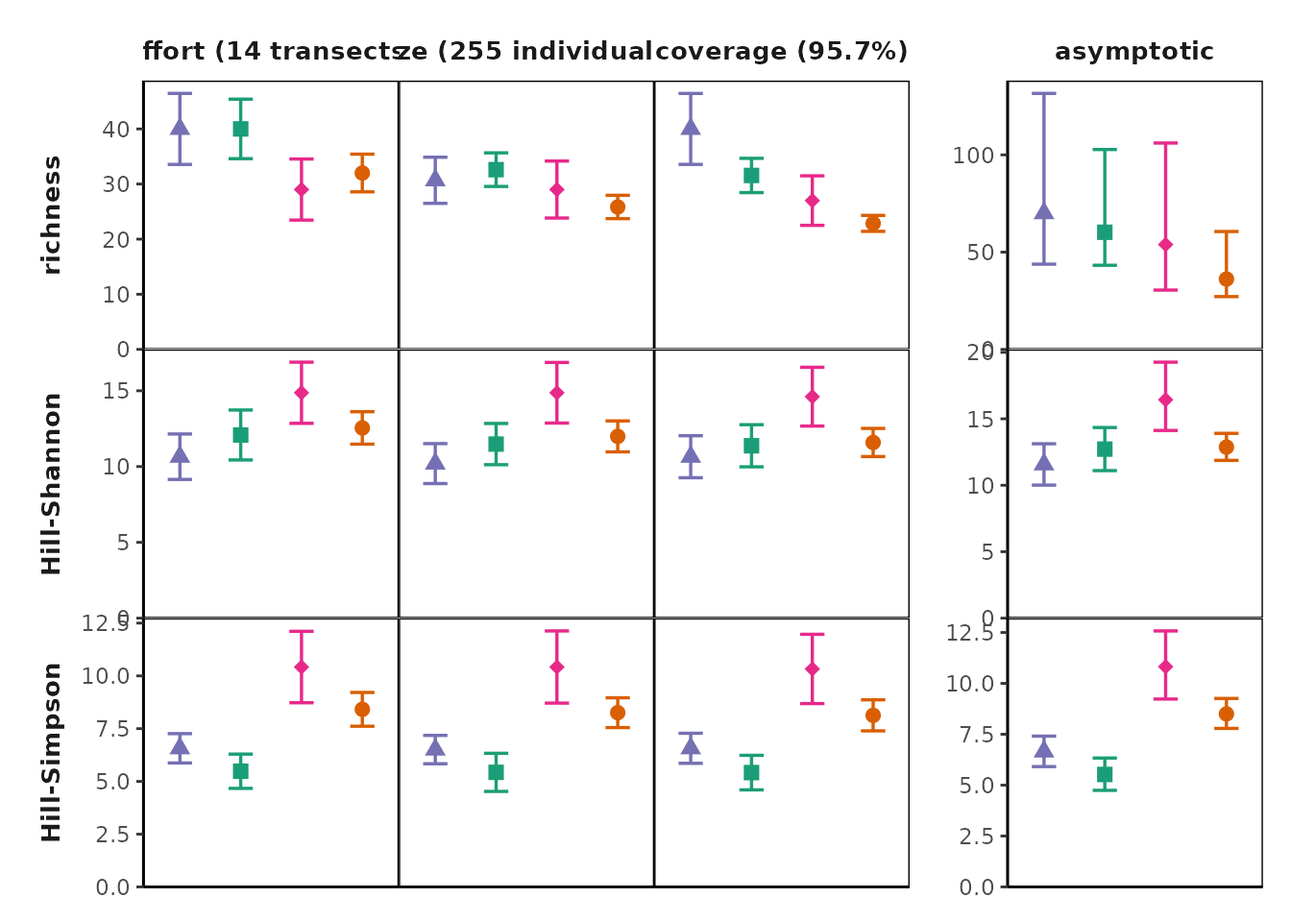
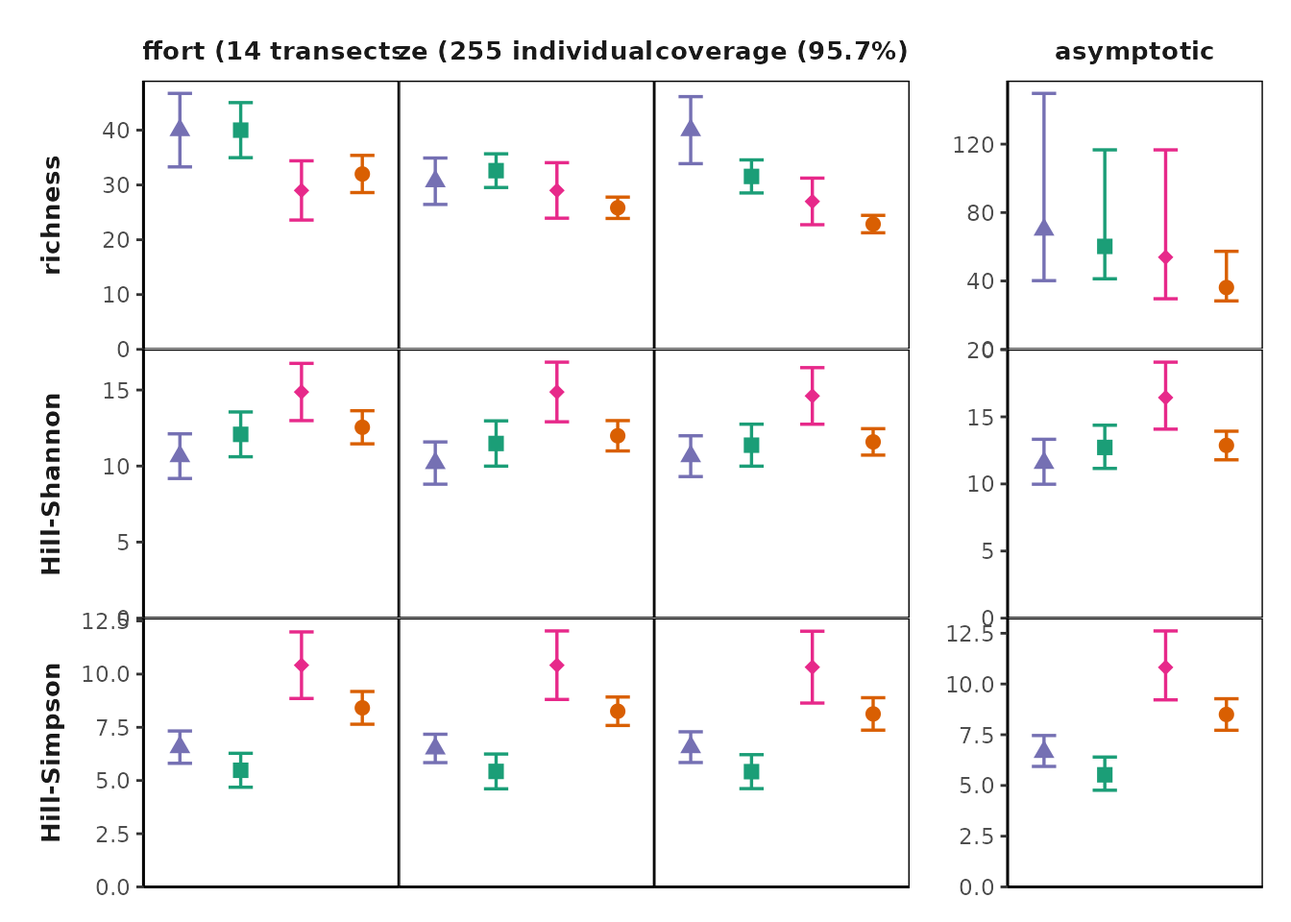
Built site for MeanRarity: 0.0.1.0000@dbbc56a

diff --git a/articles/Using_MeanRarity.html b/articles/Using_MeanRarity.html
@@ -94,6 +94,16 @@
 <!-- also see prettydoc::html_pretty which might solve the equation numbering issues -->
 <!-- https://bookdown.org/yihui/rmarkdown/prettydoc.html -->
 
+<div id="abstract" class="section level1">
+<h1 class="hasAnchor">
+<a href="#abstract" class="anchor"></a>ABSTRACT</h1>
+<ol style="list-style-type: decimal">
+<li><p>Detecting, describing, and predicting biodiversity shifts, a critical project in ecology and evolution, requires metrics with well-understood numerical and statistical properties, and transparent interpretations. Recently, Hill diversity measures have been promoted for their ability to accommodate many historical biodiversity concepts, and quantify diversity in natural “effective numbers” units. The transformation to the effective numbers scale, while potentially easing comparability and interpretability of disparate measures, can fuel false beliefs about the numerical and statistical properties of Hill diversity measures. Re-parameterizing the Hill number equation in terms of the generalized mean opens avenues to investigate the numerical and statistical properties of these widely-used measures.</p></li>
+<li><p>Here, we present the <code>R</code> package <code>MeanRarity</code>, which enables estimating and visualizing Hill diversity (aka “Hill numbers”) in terms of the average species “rarity.” Rarity is defined as the reciprocal of relative abundance. Users can compute mean rarity, generate plots to visualize species abundance distributions and their average rarity, and simulate species abundance distributions with known diversity. Here, we simulate species abundance distributions, and estimate the diversity of these assemblages based on random samples from these distributions. We investigate how the bias and variability of Hill diversity estimates (i.e., the diversity of the sample, and the estimated true diversity of the whole species abundance distriution) depend on the scaling parameter in the Hill equation, features of the species abundance distribution such as evenness, and sampling intensity.</p></li>
+<li><p>Our simulations reveal that Hill-Simpson diversity estimates can be highly variable. Within the range of sample sizes we investigated, sample Hill diversity was always most variable when the scaling parameter was equal to -1 (Hill-Simpson diversity). While the asymptotic estimator for Hill-Simpson diversity was relatively more stable, it was still more variable than asymptotic Hill-diversity estimates where the scaling parameter was between -1 and 1. Furthermore, the asymptotic estimator for Hill-Simpson diversity exhibited greater bias at low sample sizes than the asymptotic estimator for Hill diversities with intermediate scaling parameter values, although as previously reported the bias is negligible for the asymptotic estimates for Hill diversity with a scaling parameter less than about 0.75 for all species abundance distributions once samples sizes were relatively large.</p></li>
+<li><p><code>MeanRarity</code> provides tools to students, researchers, and biostatisticians to understand and investigate Hill diversity metrics. Fixing diversity values, a priori, in simulated species abundance distributions enables replicable, targeted testing of numerical and statistical properties of Hill diversities and their estimators. With this simulation platform, we tested Hill diversity estimates on samples from species abundance distributions that differed in shape, but not in richness or evenness. Our simulations reveal that for both sample Hill diversities and asymptotic Hill diversity estimates, lower bias and variability may be possible with a scaling parameter value between -1 and 1 (i.e. between Hill-Simpson diversity and richness) for small, incomplete samples.</p></li>
+</ol>
+</div>
 <div id="introduction" class="section level1">
 <h1 class="hasAnchor">
 <a href="#introduction" class="anchor"></a>INTRODUCTION</h1>
@@ -272,9 +282,9 @@
 <span class="va">uneven_sample</span> <span class="op">&lt;-</span> <span class="fu"><a href="../reference/sample_infinite.html">sample_infinite</a></span><span class="op">(</span><span class="va">uneven_SAD</span><span class="op">$</span><span class="va">rel_abundances</span>, <span class="fl">50</span><span class="op">)</span>
 <span class="co">#sample_infinite returns a numeric vector of sample species abundances</span>
 <span class="va">even_sample</span>
-<span class="co">#&gt;  [1] 5 3 7 8 2 3 5 2 1 4 1 3 0 1 0 0 2 2 0 1</span>
+<span class="co">#&gt;  [1] 11  5  4  7  5  5  1  1  1  1  2  2  2  0  0  2  0  0  1  0</span>
 <span class="va">uneven_sample</span>
-<span class="co">#&gt;  [1] 16  7  4  4  0  2  4  1  2  1  2  1  1  0  3  0  0  0  2  0</span>
+<span class="co">#&gt;  [1] 16  6  8  2  4  3  1  3  0  2  2  0  1  0  1  1  0  0  0  0</span>
 <span class="co"># compare diversity from sample vs. ideal SAD:</span>
 <span class="co"># likely pretty far off for a small sample!</span>
 
@@ -286,7 +296,7 @@
   <span class="fu"><a href="../reference/rarity.html">rarity</a></span><span class="op">(</span><span class="va">even_sample</span>, <span class="va">l</span><span class="op">)</span>
 <span class="op">}</span><span class="op">)</span><span class="op">)</span>
 <span class="co">#&gt;      [,1] [,2]     [,3]    </span>
-<span class="co">#&gt; [1,] 16   13.00638 11.06195</span>
+<span class="co">#&gt; [1,] 15   11.10527 8.865248</span>
 <span class="co"># with an uneven SAD, sample Hill-Simpson can be higher than true Hill-Simpson</span>
 <span class="co"># richness is always lower</span>
 <span class="va">uneven_SAD</span><span class="op">$</span><span class="va">community_info</span>
@@ -296,7 +306,7 @@
   <span class="fu"><a href="../reference/rarity.html">rarity</a></span><span class="op">(</span><span class="va">uneven_sample</span>, <span class="va">l</span><span class="op">)</span>
 <span class="op">}</span><span class="op">)</span><span class="op">)</span>
 <span class="co">#&gt;      [,1] [,2]     [,3]    </span>
-<span class="co">#&gt; [1,] 14   9.420011 6.544503</span>
+<span class="co">#&gt; [1,] 13   8.594807 6.157635</span>
 <span class="va">big_even_sample</span> <span class="op">&lt;-</span> <span class="fu"><a href="../reference/sample_infinite.html">sample_infinite</a></span><span class="op">(</span><span class="va">even_SAD</span><span class="op">$</span><span class="va">rel_abundances</span>, <span class="fl">1e7</span><span class="op">)</span>
 <span class="va">big_uneven_sample</span> <span class="op">&lt;-</span> <span class="fu"><a href="../reference/sample_infinite.html">sample_infinite</a></span><span class="op">(</span><span class="va">uneven_SAD</span><span class="op">$</span><span class="va">rel_abundances</span>, <span class="fl">1e7</span><span class="op">)</span>
 
@@ -308,7 +318,7 @@
   <span class="fu"><a href="../reference/rarity.html">rarity</a></span><span class="op">(</span><span class="va">big_even_sample</span>, <span class="va">l</span><span class="op">)</span>
 <span class="op">}</span><span class="op">)</span><span class="op">)</span>
 <span class="co">#&gt;      [,1] [,2]     [,3]    </span>
-<span class="co">#&gt; [1,] 20   15.12449 12.00245</span>
+<span class="co">#&gt; [1,] 20   15.11756 11.99423</span>
 <span class="co"># with an uneven SAD, sample Hill-Simpson can be higher than true Hill-Simpson</span>
 <span class="co"># richness is always lower</span>
 <span class="va">uneven_SAD</span><span class="op">$</span><span class="va">community_info</span>
@@ -318,7 +328,7 @@
   <span class="fu"><a href="../reference/rarity.html">rarity</a></span><span class="op">(</span><span class="va">big_uneven_sample</span>, <span class="va">l</span><span class="op">)</span>
 <span class="op">}</span><span class="op">)</span><span class="op">)</span>
 <span class="co">#&gt;      [,1] [,2]     [,3]    </span>
-<span class="co">#&gt; [1,] 20   9.370099 5.999887</span></code></pre></div>
+<span class="co">#&gt; [1,] 20   9.363685 5.993967</span></code></pre></div>
 <p>For any distribution of relative abundances, one can ask, “what is the Hill diversity of this distribution?” Yet the answer, of course, depends on the chosen value of the scaling parameter <span class="math inline">\(\ell\)</span>. For a comprehensive answer, one might look across values of <span class="math inline">\(\ell\)</span>, also known as a Hill “diversity profile” <span class="citation">(Chao et al. 2014)</span>. <code>MeanRarity</code> provides a function to generate a Hill diversity profile based on <span class="math inline">\(\ell\)</span> (rather than <span class="math inline">\(q\)</span>): <code><a href="../reference/divpro.html">divpro()</a></code>.</p>
 <div class="sourceCode" id="cb10"><pre class="downlit sourceCode r">
 <code class="sourceCode R"><span class="co"># the even and uneven communities have same richness but different Hill diversity when `ell != 1`</span>
@@ -403,7 +413,7 @@
   <span class="fu">dplyr</span><span class="fu">::</span><span class="fu"><a href="https://dplyr.tidyverse.org/reference/mutate.html">mutate</a></span><span class="op">(</span>evenness <span class="op">=</span> <span class="fu"><a href="https://rdrr.io/r/base/factor.html">as.factor</a></span><span class="op">(</span><span class="fu"><a href="https://rdrr.io/r/base/Round.html">round</a></span><span class="op">(</span><span class="va">evenness</span>, <span class="fl">2</span><span class="op">)</span><span class="op">)</span>
                 , sample_size <span class="op">=</span> <span class="va">SS</span><span class="op">)</span></code></pre></div>
 <p>Our findings for bias were similar to those reported elsewhere <em>CITE</em>. We found a strong negative bias for species richness for the asymptotic estimator, as well as for the sample diversity. Evenness and distributional assumption of the SAD affected the bias for both sample and Hill diversity estimates. More even communities tended to exhibit lower bias for richness but higher bias for Hill-Simpson diversity, although this pattern depended to some degree on both distributional assumption and sampling intensity. For the asymptotic Hill diversity estimates, bias at very low sample sizes was less than sample diversity but could still be extreme. However, this bias evaporated quickly for Hill diversities when the scaling exponent $&lt;&lt; 1 $.</p>
-<p>&lt;– Figures showinng bias for sample diveristy and Chao/Jost asymptotic estimators –&gt;</p>
+<p>&lt;– Figures showing bias for sample diversity and Chao/Jost asymptotic estimators –&gt;</p>
 <div class="sourceCode" id="cb13"><pre class="downlit sourceCode r">
 <code class="sourceCode R"><span class="co"># plot for the sample diversity</span>
 <span class="va">plot_data</span> <span class="op">%&gt;%</span>
@@ -421,7 +431,7 @@
   <span class="fu">ggplot2</span><span class="fu">::</span><span class="fu"><a href="https://ggplot2.tidyverse.org/reference/scale_continuous.html">scale_y_continuous</a></span><span class="op">(</span>limits <span class="op">=</span> <span class="fu"><a href="https://rdrr.io/r/base/c.html">c</a></span><span class="op">(</span><span class="fl">0</span>, <span class="cn">NA</span><span class="op">)</span>,
                               expand <span class="op">=</span> <span class="fu">ggplot2</span><span class="fu">::</span><span class="fu"><a href="https://ggplot2.tidyverse.org/reference/expansion.html">expansion</a></span><span class="op">(</span>mult <span class="op">=</span> <span class="fu"><a href="https://rdrr.io/r/base/c.html">c</a></span><span class="op">(</span><span class="fl">0</span>, <span class="fl">0.1</span><span class="op">)</span><span class="op">)</span><span class="op">)</span>
 <span class="co">#&gt; Warning: Removed 601 row(s) containing missing values (geom_path).</span></code></pre></div>
-<p><img src="Using_MeanRarity_files/figure-html/bias%20figure-1.png" width="700"></p>
+<p><img src="Using_MeanRarity_files/figure-html/bias%20figure%20-1.png" width="672"></p>
 <div class="sourceCode" id="cb14"><pre class="downlit sourceCode r">
 <code class="sourceCode R"><span class="co"># for the asymptotic estimator</span>
 <span class="va">plot_data</span> <span class="op">%&gt;%</span>
@@ -438,10 +448,74 @@
   <span class="fu">ggplot2</span><span class="fu">::</span><span class="fu"><a href="https://ggplot2.tidyverse.org/reference/scale_continuous.html">scale_y_continuous</a></span><span class="op">(</span>limits <span class="op">=</span> <span class="fu"><a href="https://rdrr.io/r/base/c.html">c</a></span><span class="op">(</span><span class="op">-</span><span class="fl">0.8</span>, <span class="fl">0.8</span><span class="op">)</span><span class="op">)</span> <span class="op">+</span>
   <span class="fu">ggplot2</span><span class="fu">::</span><span class="fu"><a href="https://ggplot2.tidyverse.org/reference/geom_abline.html">geom_hline</a></span><span class="op">(</span>yintercept <span class="op">=</span> <span class="fl">0</span><span class="op">)</span>
 <span class="co">#&gt; Warning: Removed 601 row(s) containing missing values (geom_path).</span></code></pre></div>
-<p><img src="Using_MeanRarity_files/figure-html/bias%20figure-2.png" width="700"></p>
+<p><img src="Using_MeanRarity_files/figure-html/bias%20figure%20-2.png" width="672"></p>
 <p>Much less explored is the variability of both sample diversity, and of asymptotic diversity estimates, under random sampling expectations. Here, our results were striking, and challenged the orthodoxy that Hill-Simpson diversity is the low-uncertainty option for comparing assemblages. The sample Hill-Simpson diversity, which has been promoted as a diversity metric that is robust to variation in species abundance distributions and sampling intensity <span class="citation">(Chase and Knight 2013)</span>, exhibited high sampling uncertainty for most SADs and sampling intensities that was greater than for any other Hill diversity. The asymptotic estimator was typically more variable than the sample diversity was. This was especially the case for richness. While the sampling variability in the asymptotic Hill-Simpson diversity was still higher than for the asymptotic Hill-Shannon diversity, as we saw for the sample diversity, as the scaling exponent <span class="math inline">\(\ell\)</span>$ approached zero (i.e. more like richness), the variability was high and declined slowly with additional sampling. Depending on the evenness and distributional assumption of the SAD, the asymptotic richness estimate could be more, or less, than the variability in the asymptotic Hill-Simpson diversity estimate.</p>
-<p>```{ r sampling variation in diversity estimates} # variability in sample diversity</p>
-plot_data %&gt;% ggplot2::ggplot(ggplot2::aes(x = ell , y = sample , color = evenness , shape = distribution)) + ggplot2::geom_line(ggplot2::aes(color = evenness, linetype = distribution), size = 0.8) + ggplot2::theme_classic() + ggplot2::xlim(c(-1,1)) + ggplot2::scale_color_brewer(palette = “Dark2”) + ggplot2::facet_wrap(~sample_size, scales = “free_y” , labeller = “label_both”) + #function(x){sapply(x, function(y){paste(y, " individuals“)})}) + ggplot2::labs(x =”scaling exponent 
+<div class="sourceCode" id="cb15"><pre class="downlit sourceCode r">
+<code class="sourceCode R"><span class="co"># variability in sample diversity</span>
+
+<span class="va">plot_data</span> <span class="op">%&gt;%</span>
+  <span class="fu">ggplot2</span><span class="fu">::</span><span class="fu"><a href="https://ggplot2.tidyverse.org/reference/ggplot.html">ggplot</a></span><span class="op">(</span><span class="fu">ggplot2</span><span class="fu">::</span><span class="fu"><a href="https://ggplot2.tidyverse.org/reference/aes.html">aes</a></span><span class="op">(</span>x <span class="op">=</span> <span class="va">ell</span>
+                               , y <span class="op">=</span> <span class="va">sample</span>
+                               , color <span class="op">=</span> <span class="va">evenness</span>
+                               , shape <span class="op">=</span> <span class="va">distribution</span><span class="op">)</span><span class="op">)</span> <span class="op">+</span>
+  <span class="fu">ggplot2</span><span class="fu">::</span><span class="fu"><a href="https://ggplot2.tidyverse.org/reference/geom_path.html">geom_line</a></span><span class="op">(</span><span class="fu">ggplot2</span><span class="fu">::</span><span class="fu"><a href="https://ggplot2.tidyverse.org/reference/aes.html">aes</a></span><span class="op">(</span>color <span class="op">=</span> <span class="va">evenness</span>, linetype <span class="op">=</span> <span class="va">distribution</span><span class="op">)</span>, size <span class="op">=</span> <span class="fl">0.8</span><span class="op">)</span> <span class="op">+</span>
+  <span class="fu">ggplot2</span><span class="fu">::</span><span class="fu"><a href="https://ggplot2.tidyverse.org/reference/ggtheme.html">theme_classic</a></span><span class="op">(</span><span class="op">)</span> <span class="op">+</span>
+  <span class="fu">ggplot2</span><span class="fu">::</span><span class="fu"><a href="https://ggplot2.tidyverse.org/reference/lims.html">xlim</a></span><span class="op">(</span><span class="fu"><a href="https://rdrr.io/r/base/c.html">c</a></span><span class="op">(</span><span class="op">-</span><span class="fl">1</span>,<span class="fl">1</span><span class="op">)</span><span class="op">)</span> <span class="op">+</span>
+  <span class="fu">ggplot2</span><span class="fu">::</span><span class="fu"><a href="https://ggplot2.tidyverse.org/reference/scale_brewer.html">scale_color_brewer</a></span><span class="op">(</span>palette <span class="op">=</span> <span class="st">"Dark2"</span><span class="op">)</span> <span class="op">+</span>
+  <span class="fu">ggplot2</span><span class="fu">::</span><span class="fu"><a href="https://ggplot2.tidyverse.org/reference/facet_wrap.html">facet_wrap</a></span><span class="op">(</span><span class="op">~</span><span class="va">sample_size</span>, scales <span class="op">=</span> <span class="st">"free_y"</span>
+                      , labeller <span class="op">=</span> <span class="st">"label_both"</span><span class="op">)</span> <span class="op">+</span> <span class="co">#function(x){sapply(x, function(y){paste(y, " individuals")})}) +</span>
+  <span class="fu">ggplot2</span><span class="fu">::</span><span class="fu"><a href="https://ggplot2.tidyverse.org/reference/labs.html">labs</a></span><span class="op">(</span>x <span class="op">=</span> <span class="st">"scaling exponent \U2113"</span>, y <span class="op">=</span> <span class="st">"scaled variability in sample diversity (sdlog)"</span><span class="op">)</span> <span class="op">+</span>
+  <span class="fu">ggplot2</span><span class="fu">::</span><span class="fu"><a href="https://ggplot2.tidyverse.org/reference/scale_continuous.html">scale_y_continuous</a></span><span class="op">(</span>limits <span class="op">=</span> <span class="fu"><a href="https://rdrr.io/r/base/c.html">c</a></span><span class="op">(</span><span class="fl">0</span>, <span class="cn">NA</span><span class="op">)</span>,
+                     expand <span class="op">=</span> <span class="fu">ggplot2</span><span class="fu">::</span><span class="fu"><a href="https://ggplot2.tidyverse.org/reference/expansion.html">expansion</a></span><span class="op">(</span>mult <span class="op">=</span> <span class="fu"><a href="https://rdrr.io/r/base/c.html">c</a></span><span class="op">(</span><span class="fl">0</span>, <span class="fl">0.1</span><span class="op">)</span><span class="op">)</span><span class="op">)</span>
+<span class="co">#&gt; Warning: Removed 600 row(s) containing missing values (geom_path).</span></code></pre></div>
+<p><img src="Using_MeanRarity_files/figure-html/sampling%20variation%20in%20diversity%20estimates-1.png" width="672"></p>
+<div class="sourceCode" id="cb16"><pre class="downlit sourceCode r">
+<code class="sourceCode R"><span class="co"># for asymptotic estimates</span>
+<span class="va">plot_data</span> <span class="op">%&gt;%</span>
+  <span class="fu">ggplot2</span><span class="fu">::</span><span class="fu"><a href="https://ggplot2.tidyverse.org/reference/ggplot.html">ggplot</a></span><span class="op">(</span><span class="fu">ggplot2</span><span class="fu">::</span><span class="fu"><a href="https://ggplot2.tidyverse.org/reference/aes.html">aes</a></span><span class="op">(</span>x <span class="op">=</span> <span class="va">ell</span>
+                               , y <span class="op">=</span> <span class="va">asymptotic</span>
+                               , color <span class="op">=</span> <span class="va">evenness</span>
+                               , shape <span class="op">=</span> <span class="va">distribution</span><span class="op">)</span><span class="op">)</span> <span class="op">+</span>
+  <span class="fu">ggplot2</span><span class="fu">::</span><span class="fu"><a href="https://ggplot2.tidyverse.org/reference/geom_path.html">geom_line</a></span><span class="op">(</span><span class="fu">ggplot2</span><span class="fu">::</span><span class="fu"><a href="https://ggplot2.tidyverse.org/reference/aes.html">aes</a></span><span class="op">(</span>color <span class="op">=</span> <span class="va">evenness</span>, linetype <span class="op">=</span> <span class="va">distribution</span><span class="op">)</span>, size <span class="op">=</span> <span class="fl">0.8</span><span class="op">)</span> <span class="op">+</span>
+  <span class="fu">ggplot2</span><span class="fu">::</span><span class="fu"><a href="https://ggplot2.tidyverse.org/reference/ggtheme.html">theme_classic</a></span><span class="op">(</span><span class="op">)</span> <span class="op">+</span>
+  <span class="fu">ggplot2</span><span class="fu">::</span><span class="fu"><a href="https://ggplot2.tidyverse.org/reference/lims.html">xlim</a></span><span class="op">(</span><span class="fu"><a href="https://rdrr.io/r/base/c.html">c</a></span><span class="op">(</span><span class="op">-</span><span class="fl">1</span>,<span class="fl">1</span><span class="op">)</span><span class="op">)</span> <span class="op">+</span>
+  <span class="fu">ggplot2</span><span class="fu">::</span><span class="fu"><a href="https://ggplot2.tidyverse.org/reference/scale_brewer.html">scale_color_brewer</a></span><span class="op">(</span>palette <span class="op">=</span> <span class="st">"Dark2"</span><span class="op">)</span> <span class="op">+</span>
+  <span class="fu">ggplot2</span><span class="fu">::</span><span class="fu"><a href="https://ggplot2.tidyverse.org/reference/facet_wrap.html">facet_wrap</a></span><span class="op">(</span><span class="op">~</span><span class="va">sample_size</span>, scales <span class="op">=</span> <span class="st">"free_y"</span>
+                     , labeller <span class="op">=</span> <span class="st">"label_both"</span><span class="op">)</span> <span class="op">+</span>  <span class="co">#function(x){sapply(x, function(y){paste(y, " individuals")})}) +</span>
+  <span class="fu">ggplot2</span><span class="fu">::</span><span class="fu"><a href="https://ggplot2.tidyverse.org/reference/labs.html">labs</a></span><span class="op">(</span>x <span class="op">=</span> <span class="st">"scaling exponent \U2113"</span>, y <span class="op">=</span> <span class="st">"scaled variability in asymptotic diversity estimate (sdlog)"</span><span class="op">)</span> <span class="op">+</span>
+  <span class="fu">ggplot2</span><span class="fu">::</span><span class="fu"><a href="https://ggplot2.tidyverse.org/reference/scale_continuous.html">scale_y_continuous</a></span><span class="op">(</span>limits <span class="op">=</span> <span class="fu"><a href="https://rdrr.io/r/base/c.html">c</a></span><span class="op">(</span><span class="fl">0</span>, <span class="cn">NA</span><span class="op">)</span>,
+                              expand <span class="op">=</span> <span class="fu">ggplot2</span><span class="fu">::</span><span class="fu"><a href="https://ggplot2.tidyverse.org/reference/expansion.html">expansion</a></span><span class="op">(</span>mult <span class="op">=</span> <span class="fu"><a href="https://rdrr.io/r/base/c.html">c</a></span><span class="op">(</span><span class="fl">0</span>, <span class="fl">0.1</span><span class="op">)</span><span class="op">)</span><span class="op">)</span>
+<span class="co">#&gt; Warning: Removed 601 row(s) containing missing values (geom_path).</span></code></pre></div>
+<p><img src="Using_MeanRarity_files/figure-html/sampling%20variation%20in%20diversity%20estimates-2.png" width="672"></p>
+</div>
+</div>
+<div id="alternative-software" class="section level1">
+<h1 class="hasAnchor">
+<a href="#alternative-software" class="anchor"></a>ALTERNATIVE SOFTWARE</h1>
+</div>
+<div id="conclusions" class="section level1">
+<h1 class="hasAnchor">
+<a href="#conclusions" class="anchor"></a>CONCLUSIONS</h1>
+<div id="acknowledgements" class="section level2">
+<h2 class="hasAnchor">
+<a href="#acknowledgements" class="anchor"></a>Acknowledgements</h2>
+</div>
+<div id="author-contributions" class="section level2">
+<h2 class="hasAnchor">
+<a href="#author-contributions" class="anchor"></a>Author contributions</h2>
+<p>M.R. and J.D. conceived the package concept and structure and generated source code for package functions. M.R. implemented the first package version and the shiny online application. M.R. wrote the manuscript with help from J.D.</p>
+</div>
+</div>
+<div id="data-accessibility" class="section level1">
+<h1 class="hasAnchor">
+<a href="#data-accessibility" class="anchor"></a>DATA ACCESSIBILITY</h1>
+<p>This article does not use any empirical data. The package is available on Github (SOME KIND OF URL OR DOI REF).</p>
+<div class="sourceCode" id="cb17"><pre class="downlit sourceCode r">
+<code class="sourceCode R"><span class="va">table_dat</span><span class="op">&lt;-</span><span class="fu"><a href="https://rdrr.io/r/base/data.frame.html">data.frame</a></span><span class="op">(</span>
+  `Function name` <span class="op">=</span> <span class="fu"><a href="https://rdrr.io/r/base/c.html">c</a></span><span class="op">(</span><span class="st">"rarity"</span>, <span class="st">"rarity_plot"</span>, <span class="st">"radplot"</span>, <span class="st">"divpro"</span>, <span class="st">"sample_infinite"</span>, <span class="st">"sample_finite"</span>, <span class="st">"fit_SAD"</span><span class="op">)</span>
+  , `General purpose` <span class="op">=</span> <span class="fu"><a href="https://rdrr.io/r/base/c.html">c</a></span><span class="op">(</span><span class="st">"Computation"</span>, <span class="st">"Visualization"</span>, <span class="st">"Visualization"</span>, <span class="st">"Visualization"</span>, <span class="st">"Sampling"</span>, <span class="st">"Sampling"</span>, <span class="st">"Simulation"</span><span class="op">)</span>
+  , `Description` <span class="op">=</span> <span class="fu"><a href="https://rdrr.io/r/base/c.html">c</a></span><span class="op">(</span><span class="st">"Compute Hill diversity using the rarity parameterization"</span><span class="op">)</span>
+<span class="op">)</span></code></pre></div>
 <div id="refs" class="references">
 <div id="ref-Alberdi2019b">
 <p>Alberdi, Antton, and M. Thomas P. Gilbert. 2019. “A guide to the application of Hill numbers to DNA-based diversity analyses.” <em>Molecular Ecology Resources</em> 19 (4): 804–17. <a href="https://doi.org/10.1111/1755-0998.13014">https://doi.org/10.1111/1755-0998.13014</a>.</p>
@@ -493,7 +567,6 @@ plot_data %&gt;% ggplot2::ggplot(ggplot2::aes(x = ell , y = sample , color = eve
 </div>
 <div id="ref-Sherwin2017">
 <p>Sherwin, W. B., A. Chao, L. Jost, and P. E. Smouse. 2017. “Information theory broadens the spectrum of molecular ecology and evolution.” <em>Trends in Ecology &amp; Evolution</em> 32 (12): 948–63. <a href="https://doi.org/10.1016/j.tree.2017.09.012">https://doi.org/10.1016/j.tree.2017.09.012</a>.</p>
-</div>
 </div>
 </div>
 </div>
